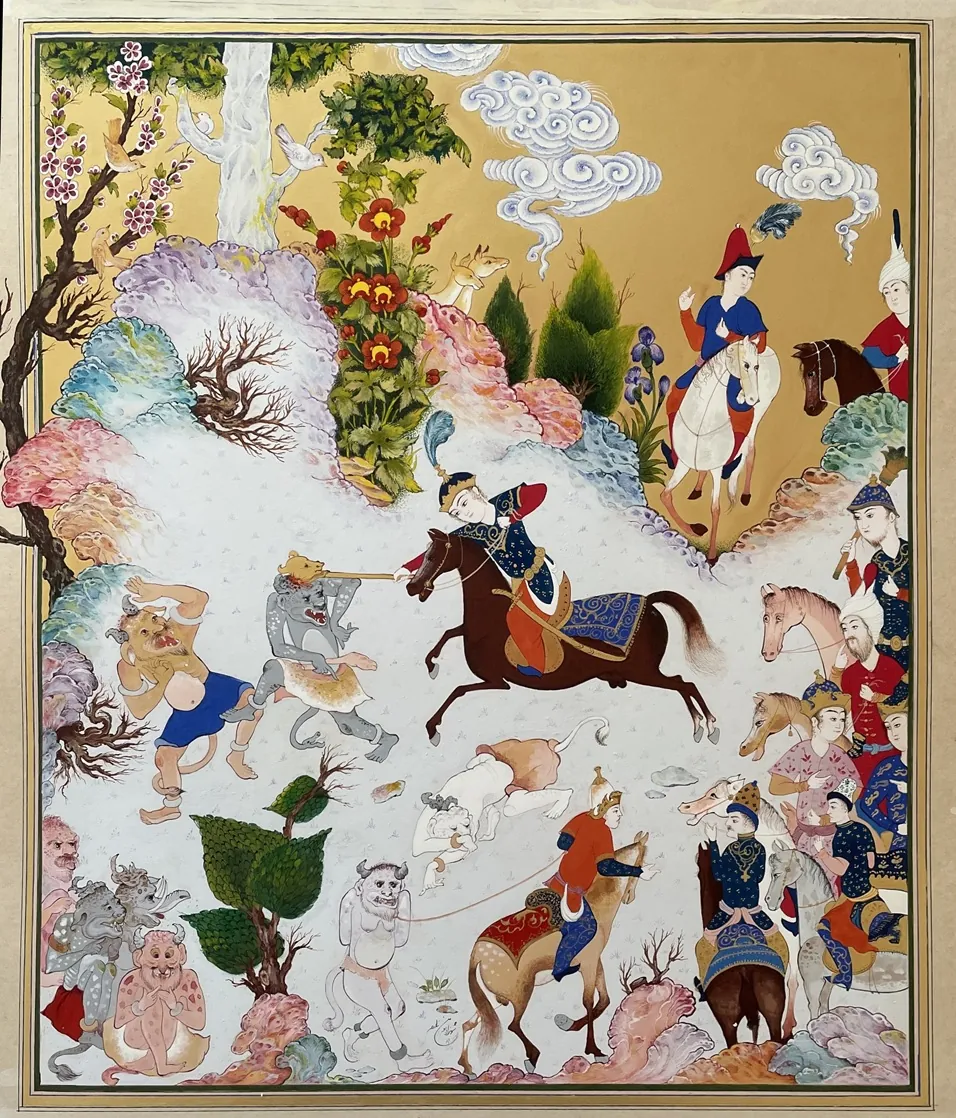
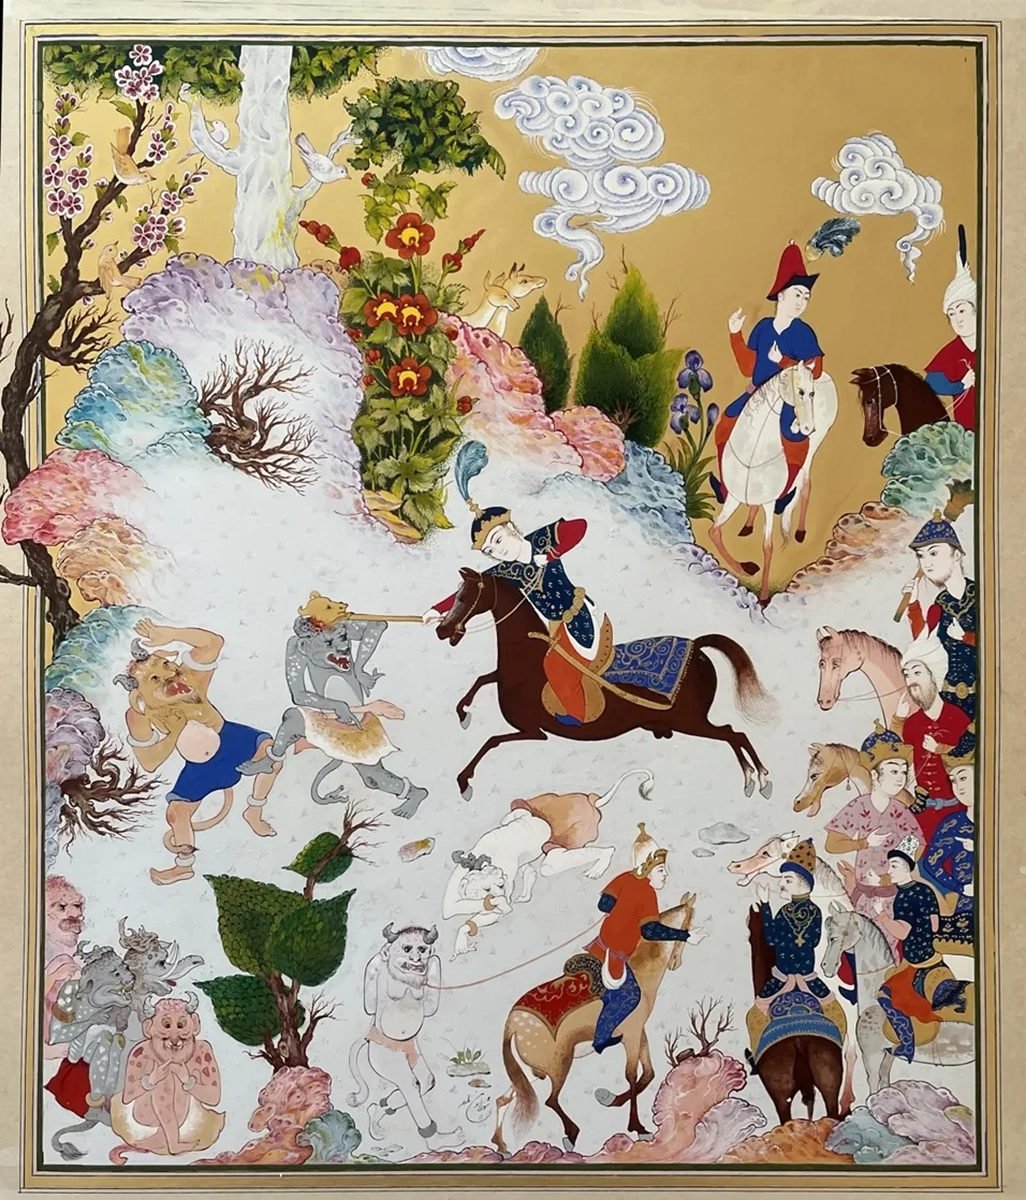
shahr16-2

diff --git a/Contemporary_Art.html b/Contemporary_Art.html
@@ -71,8 +71,13 @@
     }
   }
     .art-card img {
-    border-radius: 10px;
-  }
+  width: 100%;
+  height: 320px;
+  object-fit: contain;
+  background: #f7f7f7;
+  border-radius: 12px;
+  padding: 10px;
+}
 </style>
 <div class="gallery">
 
@@ -208,6 +213,7 @@
   © 2026 Shahrzad Momenzadeh. All rights reserved. |
   Website Design: Behrouz Mohebi Moghaddam – Website Developed: Artin Mohebi Moghaddam
 </div>
+
 <style>
 .copyright {
         text-align: center;
@@ -216,8 +222,30 @@
         padding: 2px;
         margin-top: 30%;
       }
-</style>
+      @media (max-width: 768px) {
 
+  .art-card {
+    margin-bottom: 6px;
+  }
+
+  .art-card img {
+    height: auto !important;
+    max-height: 220px;
+    padding: 0 !important;
+  }
+
+  .art-card p {
+    margin-top: 4px !important;
+    margin-bottom: 0 !important;
+    font-size: 13px;
+  }
+
+  .gallery {
+    gap: 12px;
+  }
+
+}
+</style>
 
 <script>
   const hamBtn = document.getElementById("hamburgerBtn");

diff --git a/index.html b/index.html
@@ -506,8 +506,8 @@ Shahrzad Art Studio is a personal art studio dedicated to Contemporary Persian M
 }
 .gallery-item img {
   width: 220px;
-  height: 300px;
-  object-fit: contain;
+  height: 280px;
+  object-fit: cover;
   border-radius: 10px;
   transition: transform 0.35s cubic-bezier(0.4, 0, 0.2, 1);
 }
